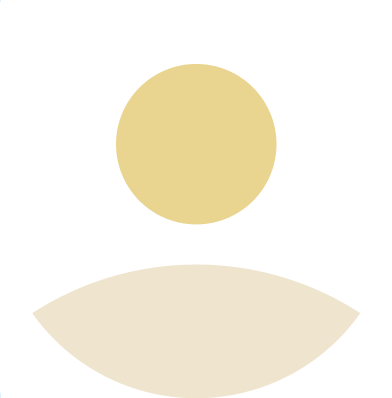
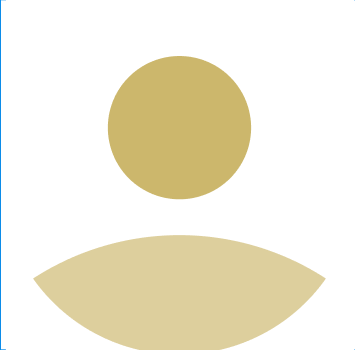
posts cleaned

diff --git a/lib/view/Community/communityWidgets/postView.dart b/lib/view/Community/communityWidgets/postView.dart
@@ -43,14 +43,20 @@ class PostView extends StatelessWidget {
         imagePath = 'assets/images/NoPosts.png';
       }
 
-      return Center(
-        child: Image.asset(
-          imagePath,
-          width: 350,
-          height: 350,
-          fit: BoxFit.contain,
-        ),
-      );
+        return Center(
+    child: Padding(
+      padding: EdgeInsets.only(
+        // to make centerd
+        top: imagePath.contains('assets/images/NoPosts.png') ? 130 : 0,
+      ),
+      child: Image.asset(
+        imagePath,
+        width: 295,
+        height: 295,
+        fit: BoxFit.contain,
+      ),
+    ),
+  );
     }
       return ListView.separated(
         itemCount: postList.length,
